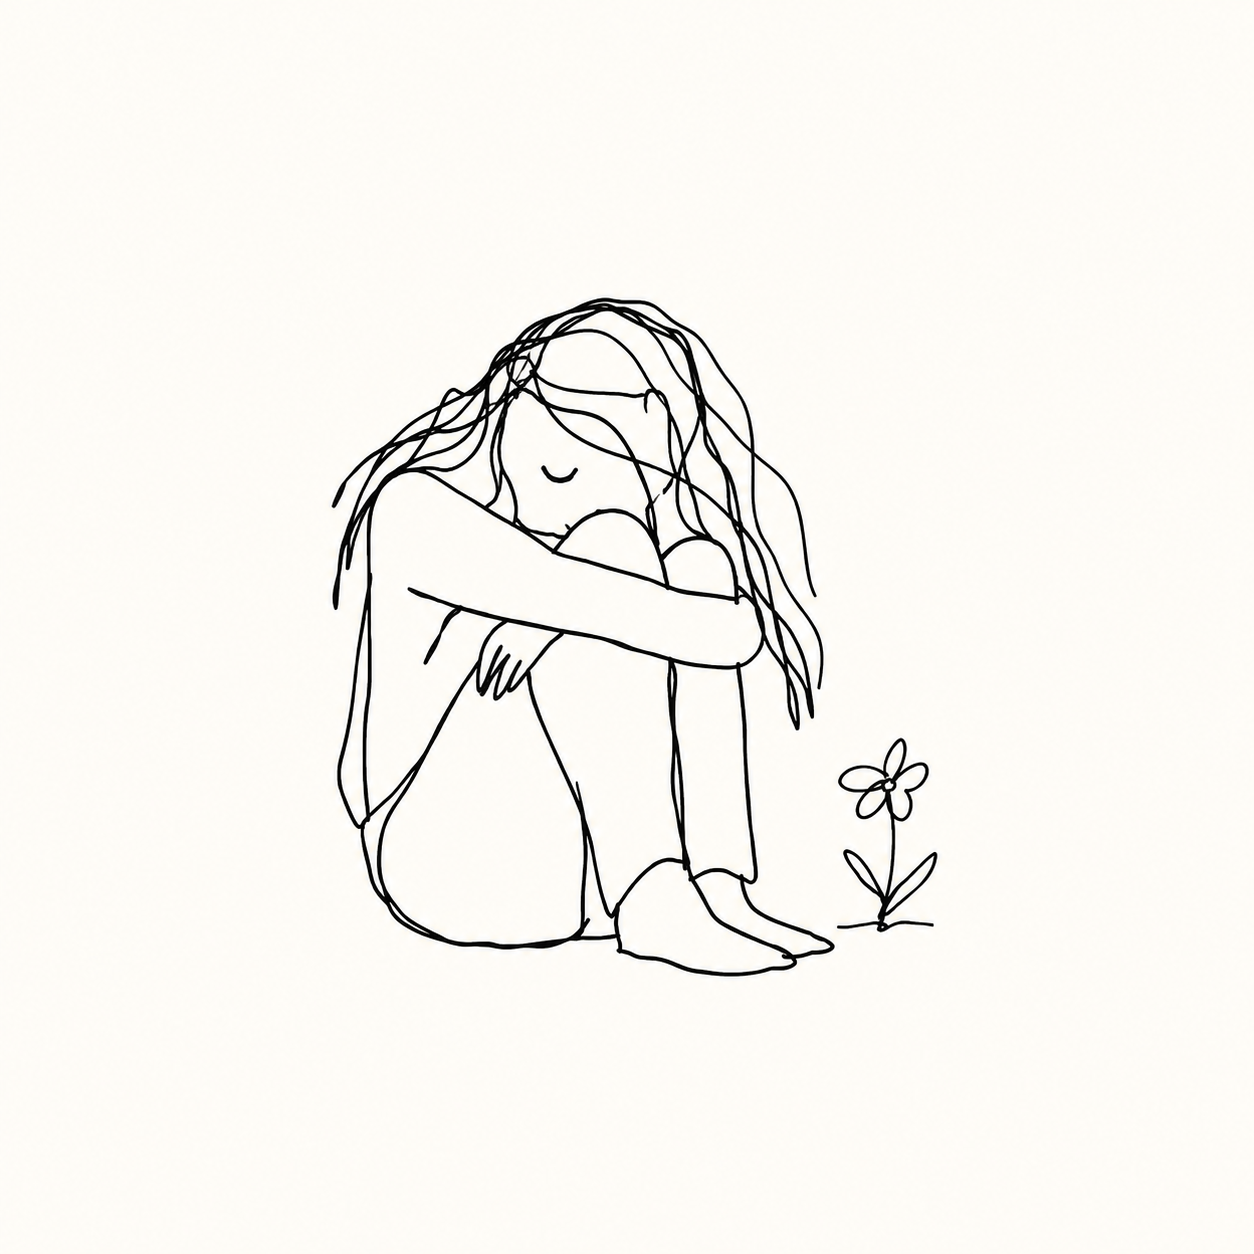
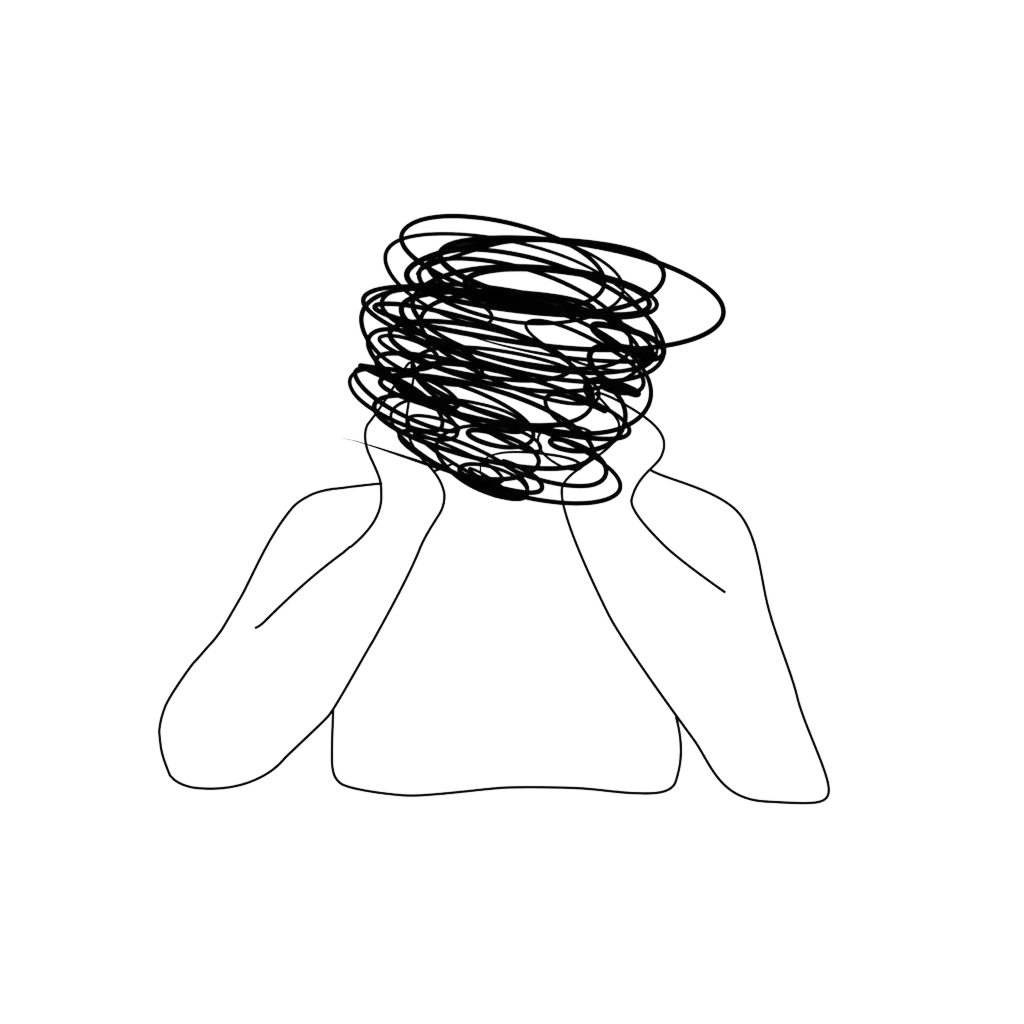
feat(website): publish approved homepage and competencies refinements

diff --git a/website/tests/smoke.spec.ts b/website/tests/smoke.spec.ts
@@ -173,7 +173,7 @@ test("competencies page presents scannable therapy situations and parental couns
     name: "Anxietate și atacuri de panică",
   });
   const anxietyDescription = therapyHelp.getByText(
-    /Stări de neliniște, griji greu de oprit/,
+    /Stări de neliniște, ruminații, stare de teamă/,
   );
   const anxietyContent = therapyHelp
     .locator('[data-slot="accordion-content"]')
@@ -647,7 +647,7 @@ test("homepage follows the approved public reading order", async ({ page }) => {
   ).toBeVisible();
   await expect(
     page.getByText(
-      "Astfel, vă puteți face o idee mai clară despre sursa dificultăților.",
+      "Ele pot fi un punct de pornire pentru a înțelege mai clar ce anume vă preocupă sau vă afectează.",
       { exact: true },
     ),
   ).toBeVisible();

diff --git a/brand-assets/website-feedback-2026-09-27/README.md b/brand-assets/website-feedback-2026-09-27/README.md
@@ -1,0 +1,27 @@
+# Ilustrații pentru feedback-ul website-ului din 2026-09-27
+
+Stare: cele trei ilustrații active sunt aprobate pentru publicare pe website.
+Sursa: fișiere furnizate de utilizator din `Downloads/Silvia Graphics`.
+La 2026-09-27, utilizatorul a confirmat explicit dreptul de utilizare pe website
+pentru `depresie.png`, `faq-questions.png` și `first-session-room-v2.png`.
+Creatorul și licența nu au fost verificate independent. Variantele înlocuite
+`first-session-room.png` și `paper-texture.jpg` rămân numai pentru arhiva locală,
+fără aprobare de publicare în această confirmare.
+
+| Sursă                                             | Fișier păstrat           | Utilizare                                     |
+| ------------------------------------------------- | ------------------------ | --------------------------------------------- |
+| `depresie.png`                                    | `depresie.png`           | Competențe, Stări depresive                   |
+| `image 103.png`                                   | `first-session-room.png` | Homepage, prima ședință                       |
+| `image 105.png`                                   | `faq-questions.png`      | Homepage, întrebări frecvente                 |
+| `Downloads/annie-spratt-KUYF2Xy8Rj0-unsplash.jpg` | `paper-texture.jpg`      | Antetul primei ședințe, estompare spre stânga |
+
+Textura este atribuită lui Annie Spratt / Unsplash prin numele fișierului
+furnizat; atribuirea și licența nu au fost verificate independent.
+
+Originalele păstrează transparența. Copiile website-ului sunt procesate de Astro.
+Ilustrațiile sunt decorative și folosesc text alternativ gol.
+
+Revizie ulterioară, 2026-09-27: `first-session-room.png` și `paper-texture.jpg`
+sunt păstrate ca variante înlocuite, fără utilizare în website. Ilustrația activă
+este `first-session-room-v2.png`, furnizată din
+`Downloads/ChatGPT Image Sep 27, 2026, 05_57_50 PM.png`.

diff --git a/obsidian-vault/decisions/2026-09-27-feedback-homepage-competente.md b/obsidian-vault/decisions/2026-09-27-feedback-homepage-competente.md
@@ -1,0 +1,33 @@
+# Feedback local pentru homepage și Competențe
+
+Data: 2026-09-27
+Stare: `approved`; publicarea în mediul protejat este autorizată.
+
+## Context și decizie
+
+Utilizatorul a furnizat zece comentarii pe homepage și `/competente/`.
+Aplicăm textele și ilustrațiile solicitate, păstrând diacriticele și structura
+componentelor existente. Descrierea promoției „O primă explorare” se modifică
+în componenta comună, pentru toate utilizările. Paragraful indicat din
+introducerea consilierii parentale este eliminat.
+
+Textura de hârtie a fost inițial solicitată cu estompare spre stânga. În revizia
+ulterioară din aceeași zi, utilizatorul a cerut eliminarea ei și înlocuirea
+ilustrației primei ședințe cu `ChatGPT Image Sep 27, 2026, 05_57_50 PM.png`.
+Această revizie înlocuiește alegerea inițială pentru antet; restul feedback-ului
+rămâne valabil.
+
+Feedback-ul inițial nu propunea schimbări de navigație, fluxuri sau colectare de date.
+Ulterior, utilizatorul a solicitat publicarea actualizărilor din această zi.
+Textele canonice rămân în `website/src/`; sursele ilustrațiilor sunt păstrate în
+`brand-assets/website-feedback-2026-09-27/`.
+
+## Confirmări pentru publicare
+
+La 2026-09-27, utilizatorul a confirmat explicit că Silvia a aprobat publicarea
+mențiunii „Membru ACPPB / Colegiul Psihologilor”. Nu se adaugă sigle sau însemne.
+În aceeași conversație, utilizatorul a confirmat dreptul de utilizare pe website
+pentru cele trei ilustrații active: Stări depresive, întrebări frecvente și
+prima ședință (varianta `first-session-room-v2.png`).
+Confirmările provin de la utilizator; nu reprezintă o verificare independentă
+a statutului profesional sau a licențelor. Protecția de prelansare se păstrează.

diff --git a/obsidian-vault/decisions/README.md b/obsidian-vault/decisions/README.md
@@ -37,6 +37,10 @@ conformitate. Starea din tabel descrie decizia, nu starea întregii implementăr
 | 2026-09-04 | [[2026-09-04-harta-google-maps-incarcare-automata\|Harta Google Maps cu încărcare automată]]                                | `in-review`                                | Înlocuiește numai acțiunea explicită pentru hartă: iframe-ul se încarcă automat, păstrează zona orientativă și necesită re-revizuirea publică a confidențialității înainte de lansare.                                                                           |
 | 2026-09-24 | [[2026-09-24-simplificare-blog-si-build\|Simplificarea blogului și a build-ului]]                                           | `approved`                                 | Înlocuiește TinaCMS și MDX cu Markdown în Git; optimizează build-ul și verificările. Curățarea shadcn și a activelor este exclusă.                                                                                                                               |
 
+Feedback aprobat: [[2026-09-27-feedback-homepage-competente|Homepage și Competențe]]
+(`approved`; publicarea în mediul protejat este autorizată, inclusiv afilierea
+confirmată cu Silvia și cele trei ilustrații active).
+
 ## Lanțuri de actualizare
 
 - [[2026-06-24-website-technical-foundation|Fundație tehnică]] →
